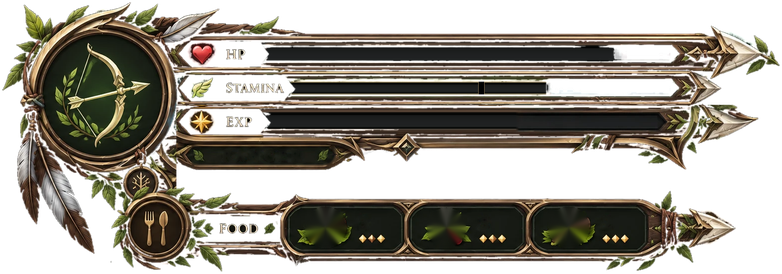
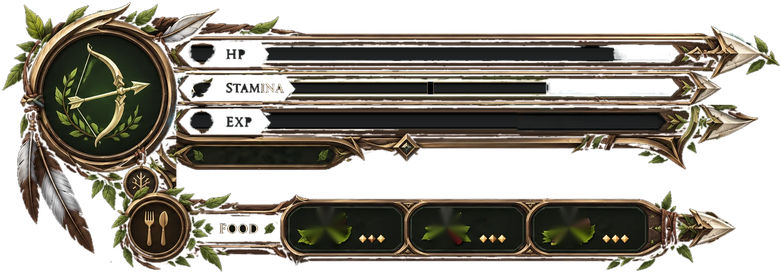
v0.25.74 Bar Labels: painted HUD label column removed, stat names drawn inside the bars
Claude-Session: https://claude.ai/code/session_01XpdCpqX2P5cHTKtzw8jsN7

Changed region(s): [[0.2455, 0.1168, 0.3376, 0.5255], [0.6138, 0.292, 0.6445, 0.3504], [0.5217, 0.292, 0.5524, 0.3504]]

diff --git a/AlbedosCustomClasses.Advanced.cs b/AlbedosCustomClasses.Advanced.cs
@@ -116,7 +116,7 @@ namespace AlbedosCustomClassesAdvanced
     {
         public const string ModGuid = "albedo.customclasses.advanced";
         public const string ModName = "Dragon's Altar - Advancements";
-        public const string ModVersion = "0.25.73";
+        public const string ModVersion = "0.25.74";
 
         private const string ClassDataKey = "AlbedoCustomClasses.Class";
         private const string AdvancementDataKey = "AlbedoCustomClasses.Advancement";
@@ -13877,21 +13877,27 @@ namespace AlbedosCustomClassesAdvanced
                 Rect v3 = new Rect(panel.x + l.Value[3].x * k - 260f * k, panel.y + l.Value[3].y * k - 14f * k, 260f * k, 28f * k);
                 IhHudOutlineLabel(v3, "Lv " + IhGetLevel(player).ToString(), _ihArtValue, new Color(0.98f, 0.92f, 0.70f, 1f));
             }
-            else
+            // v0.25.74 (user): the painted icon/label column is gone; each bar (or half) carries its name on the left
+            // and its number on the right (Warrior keeps its painted value column, so only the names go in its bars).
+            string[] names = { "HP", l.Split ? "STAMINA" : "STA", "EITR", "EXP" };
+            for (int i = 0; i < 4; i++)
             {
-                _ihArtValue.alignment = TextAnchor.MiddleCenter;
-                for (int i = 0; i < 4; i++)
-                {
-                    float bh = Mathf.Max(l.BarH[i], 22f);
-                    _ihArtValue.fontSize = Mathf.Max(12, Mathf.RoundToInt(Mathf.Min(19f, bh * 0.78f) * k));
-                    float cy = panel.y + (l.BarY[i] + l.BarH[i] * 0.5f) * k;
-                    float bx0 = l.BarX[i], bx1 = l.BarMax[i];
-                    if (i == 0 || i == 3) { bx0 = Mathf.Min(l.BarX[0], l.BarX[i]); }
-                    Rect r = new Rect(panel.x + bx0 * k, cy - 14f * k, (bx1 - bx0) * k, 28f * k);
-                    if (i == 3) IhHudOutlineLabel(r, "Lv " + IhGetLevel(player).ToString(), _ihArtValue, new Color(0.98f, 0.92f, 0.70f, 1f));
-                    else if (i == 2 && !l.Split && eiMax <= 0f) continue;
-                    else IhHudOutlineLabel(r, l.Split && i > 0 ? Mathf.CeilToInt(Mathf.Max(0f, cur[i])).ToString() : IhVal(cur[i], max[i]), _ihArtValue, txt);
-                }
+                if (i == 2 && !l.Split && eiMax <= 0f) continue;
+                float bh = Mathf.Max(l.BarH[i], 22f);
+                int fs2 = Mathf.Max(12, Mathf.RoundToInt(Mathf.Min(19f, bh * 0.78f) * k));
+                float cy = panel.y + (l.BarY[i] + l.BarH[i] * 0.5f) * k;
+                float pad = 10f * k;
+                Rect r = new Rect(panel.x + l.BarX[i] * k + pad, cy - 14f * k, (l.BarMax[i] - l.BarX[i]) * k - pad * 2f, 28f * k);
+                _ihArtValue.fontSize = fs2;
+                _ihArtValue.alignment = TextAnchor.MiddleLeft;
+                IhHudOutlineLabel(r, names[i], _ihArtValue, txt);
+                if (l.HasValues) continue;
+                _ihArtValue.alignment = TextAnchor.MiddleRight;
+                string val;
+                if (i == 3) val = "Lv " + IhGetLevel(player).ToString();
+                else if (l.Split && i > 0) val = Mathf.CeilToInt(Mathf.Max(0f, cur[i])).ToString();
+                else val = IhVal(cur[i], max[i]);
+                IhHudOutlineLabel(r, val, _ihArtValue, i == 3 ? new Color(0.98f, 0.92f, 0.70f, 1f) : txt);
             }
 
             // class name on the painted plate (shrinks to fit)

diff --git a/tools/build_hud_frames.py b/tools/build_hud_frames.py
@@ -111,6 +111,7 @@ def build(cls):
             x, y = c; rr = g["food_digit_r"]
             text_erase((x - rr, y - rr - 4, x + rr, y + rr + 4), 80, 110)
     clean = cv2.inpaint(bgr, erase, 6, cv2.INPAINT_TELEA) if erase.any() else bgr
+    clean = remove_label_column(g, clean, strips)
     # alpha: background-like pixels connected to the border become transparent (soft by distance)
     bg = np.median(np.concatenate([bgr_src[:20, :20].reshape(-1, 3), bgr_src[-20:, -20:].reshape(-1, 3), bgr_src[:20, -20:].reshape(-1, 3), bgr_src[-20:, :20].reshape(-1, 3)]), axis=0)
     diff = np.abs(bgr_src.astype(int) - bg).max(axis=2)
@@ -132,6 +133,27 @@ def build(cls):
     if g.get("cut"):
         rgb, a, keep = cut_eitr_row(g, rgb, a, keep, strips, profile)
     return dict(g=g, rgb=rgb, alpha=a, strips=strips, keep=keep)
+
+# v0.25.74 (user): the painted label column (stat icon + HP / STAMINA / EXP text) goes away; the names are drawn
+# INSIDE the bars. The bar block is uniform horizontally, so the column is rebuilt from bar-area columns right of it
+# (troughs + row separators), feathered into the left border, and every bar starts at the old column's left edge.
+def remove_label_column(g, img, strips):
+    kx0, ky0, kx1, ky1 = g["keep"][0]
+    lx0 = kx0 + g.get("label_pad", 0)
+    x1 = min(st["x0"] for st in strips) + 3
+    w = x1 - lx0
+    sx = x1 + 24
+    y0, y1 = ky0 - 6, ky1 + 6
+    out = img.astype(float)
+    src = img[y0:y1, sx:sx + w].astype(float)
+    wgt = np.ones(w)
+    f = 8
+    for i in range(f):
+        wgt[i] = (i + 1) / (f + 1.0)
+    out[y0:y1, lx0:x1] = out[y0:y1, lx0:x1] * (1 - wgt[None, :, None]) + src * wgt[None, :, None]
+    for st in strips:
+        st["x0"] = lx0 + 4
+    return out.astype(np.uint8)
 
 # v0.25.73 (user): Stamina and Eitr share ONE bar line split in two. The painted Eitr row is cut out: everything right of
 # the bar column below the Stamina row (plus the food tray) moves up by one row height; a divider is painted at the
@@ -247,6 +269,16 @@ def compose(base, ac, target, values=(1.0, 0.82, 0.55, 0.62)):
         for i, ((key, y0, y1, *_), s) in enumerate(zip(g["bars"], nums)):
             if sp and i == 2: continue
             text(d, (g["value_x"], cut_shift(g, g["value_x"], (y0 + y1) // 2) if sp else (y0 + y1) // 2), s, 30, anchor="rm")
+    # v0.25.74 names inside the bars (game draws the same)
+    for i, st in enumerate(base["strips"]):
+        x0, y0, xmax = st["x0"], st["y0"], st["xmax"]
+        h = st["img"].shape[0]
+        if sp and i == 1: xmax = sp[0] - sp[1]
+        if sp and i == 2: x0, y0, xmax, h = sp[0] + sp[1], s1["y0"], s1["xmax"], s1["img"].shape[0]
+        cy = y0 + h // 2
+        text(d, (x0 + 18, cy), ["HP", "STAMINA", "EITR", "EXP"][i], 24, anchor="lm")
+        if not g["values"]:
+            text(d, (xmax - 18, cy), ["720 / 720", "123", "55", "Lv 12"][i], 24, anchor="rm")
     x0, y0, x1, y1 = g["name"]
     ny = cut_shift(g, (x0 + x1) // 2, (y0 + y1) // 2) if sp else (y0 + y1) // 2
     text(d, ((x0 + x1) // 2, ny), ac.upper(), 30, maxw=(x1 - x0) - 30)

diff --git a/AlbedosCustomClasses.Skills.cs b/AlbedosCustomClasses.Skills.cs
@@ -233,7 +233,7 @@ namespace AlbedosCustomClassesSkills
         public static SkillsPlugin Instance;
         public const string ModGuid = "albedo.customclasses.skills";
         public const string ModName = "Dragon's Altar - Starter Skills";
-        public const string ModVersion = "0.25.73";
+        public const string ModVersion = "0.25.74";
 
         private const string ClassDataKey = "AlbedoCustomClasses.Class";
         private const string WarriorRunBonusKey = "AlbedoCustomClasses.WarriorRunBonus";

diff --git a/DragonsAltar.Sorcerer.cs b/DragonsAltar.Sorcerer.cs
@@ -165,7 +165,7 @@ namespace DragonsAltarSorcerer
     {
         public const string ModGuid = "albedo.customclasses.sorcerer";
         public const string ModName = "Dragon's Altar - Sorcerer Advancements";
-        public const string ModVersion = "0.25.73";
+        public const string ModVersion = "0.25.74";
 
         private const string ClassDataKey = "AlbedoCustomClasses.Class";
         private const string AdvancementDataKey = "AlbedoCustomClasses.Advancement";

diff --git a/DragonsAltar.Ranger.cs b/DragonsAltar.Ranger.cs
@@ -40,7 +40,7 @@ namespace DragonsAltarRanger
     {
         public const string ModGuid = "albedo.customclasses.ranger";
         public const string ModName = "Dragon's Altar - Ranger";
-        public const string ModVersion = "0.25.73";
+        public const string ModVersion = "0.25.74";
         private const string ClassDataKey = "AlbedoCustomClasses.Class";
         private const string AdvancementDataKey = "AlbedoCustomClasses.Advancement";
 

diff --git a/AlbedosCustomClasses.Core.cs b/AlbedosCustomClasses.Core.cs
@@ -41,7 +41,7 @@ namespace AlbedosCustomClasses
     {
         public const string ModGuid = "albedo.customclasses";
         public const string ModName = "Dragon's Altar";
-        public const string ModVersion = "0.25.73";
+        public const string ModVersion = "0.25.74";
 
         internal const string ClassDataKey = "AlbedoCustomClasses.Class";
         internal const string AdvancementDataKey = "AlbedoCustomClasses.Advancement";

diff --git a/AlbedosCustomClasses.GuardianAngel.cs b/AlbedosCustomClasses.GuardianAngel.cs
@@ -17,7 +17,7 @@ namespace AlbedosCustomClassesGuardian
     {
         public const string ModGuid = "albedo.customclasses.guardian";
         public const string ModName = "Dragon's Altar - Grand Sigil Survival";
-        public const string ModVersion = "0.25.73";
+        public const string ModVersion = "0.25.74";
 
         private const string AdvancementDataKey = "AlbedoCustomClasses.Advancement";
 

diff --git a/AlbedosCustomClasses.Passives.cs b/AlbedosCustomClasses.Passives.cs
@@ -9,7 +9,7 @@ namespace AlbedosCustomClassesPassives
     {
         public const string ModGuid = "albedo.customclasses.passives";
         public const string ModName = "Dragon's Altar - Base Blessings Compatibility";
-        public const string ModVersion = "0.25.73";
+        public const string ModVersion = "0.25.74";
 
         private void Awake()
         {

diff --git a/DragonsAltar.CombatRuntime.cs b/DragonsAltar.CombatRuntime.cs
@@ -15,7 +15,7 @@ namespace DragonsAltarCombat
     {
         public const string ModGuid = "albedo.customclasses.combatruntime";
         public const string ModName = "Dragon's Altar - Combat Runtime";
-        public const string ModVersion = "0.25.73";
+        public const string ModVersion = "0.25.74";
 
         internal static DragonCombatPlugin Instance;
 

diff --git a/DragonsAltar.DevTools.cs b/DragonsAltar.DevTools.cs
@@ -40,7 +40,7 @@ namespace DragonsAltarDevTools
     {
         public const string ModGuid = "albedo.customclasses.devtools";
         public const string ModName = "Dragon's Altar - Developer Tools";
-        public const string ModVersion = "0.25.73";
+        public const string ModVersion = "0.25.74";
 
         public static DeveloperToolsPlugin Instance;
 

diff --git a/CLAUDE.md b/CLAUDE.md
@@ -3,7 +3,7 @@
 ## Working rules
 - User wants short responses and real execution, not long explanations.
 - **RUSH B** = immediately code the obvious requested task, minimal commentary, use latest approved build as baseline, don't redesign unrelated things, verify and package.
-- Latest package: **v0.25.73 — Split Bars** (v0.25.72 Living Skills, v0.25.71 Recast and Brace, v0.25.70 Bat Swing, v0.25.69 Sharp Edges, v0.25.68 Class Frames, v0.25.67 Getsuga and Smart Aim, v0.25.66 Terrain and Slashes, v0.25.65 Afterimages and Arrows, v0.25.64 Paladin Relic, v0.25.63 Smash and Crescents, v0.25.62 Signature VFX Fix, v0.25.61 Signature VFX, v0.25.60 Ground Lightning, v0.25.59 Flowing Chains, v0.25.58 Detail Pass, v0.25.57 Cleric Details, v0.25.56 Sorcerer and Ranger VFX, v0.25.55 Warrior VFX, v0.25.54 Cleric VFX, v0.25.53 Rooted Splitting, v0.25.52 Ranger Windows, v0.25.51 Crescent Follow Up, v0.25.50 Crescent Fix, v0.25.49 Ranger Rework, v0.25.48 Real Chains, v0.25.47 Warrior Weapons, v0.25.46 Merc Weapons, v0.25.45 Class Chains, v0.25.44 Chain Fix, v0.25.43 Dual Wield Clips, v0.25.42 Weapons and Chains, v0.25.41 Emotes and Judgement Cut, v0.25.40 Buff Raise, v0.25.39 Altar Panels, v0.25.38 Combo Chains, v0.25.37 Tooltip Fit, v0.25.36 Hammer Slam, v0.25.35 Swing Timing, v0.25.34 Buff Tooltips, v0.25.33 Piercing Volleys, v0.25.32 Two Hand Whirlwind, v0.25.31 Cyclone Shot, v0.25.30 Wind Up Timing, v0.25.29 Crow Hop, v0.25.28 Circle Skip, v0.25.27 Vanilla Base, v0.25.26 Anatomy, v0.25.25 Vanilla Layer, v0.25.24 Spin and Bow Poses, v0.25.23 Storyboard Rebuild, v0.25.22 Planted Feet, v0.25.21 Animation Guide, v0.25.20 Held Items, v0.25.19 Animation Polish, v0.25.18 Ranged and Rift Families, v0.25.17 Martial Families, v0.25.16 Casting Families, v0.25.15 Vanguard and Olympic Hero, v0.25.14 Smooth Motions, v0.25.13 Trait Motions, v0.25.12 Angel Comet and Burns, v0.25.11 Damage Split and Tooltips, v0.25.10 Ranger Motions, v0.25.9 Sorcerer Motions, v0.25.8 Warrior Motions, v0.25.7 Cleric Motions, v0.25.6 Orb and Motions, v0.25.5 HUD Rework, v0.25.4 Stat HUD, v0.25.3 Lean HUD, v0.25.2 HUD Fixes, v0.25.1 HUD Style, v0.25.0 Immortal HUD, v0.24.4 Animations, v0.24.3 Ranger Fixes, v0.24.2 Ranger Polish, v0.24.1 Bowmaster, v0.24.0 Ranger, v0.23.10 Art Fixes, v0.23.9 Class Art, v0.23.8 Icons, v0.23.7 Polish, v0.23.6 Astral Twins, v0.23.5 Universal UI, v0.23.4 Horizon Walker, v0.23.3 Tweaks, v0.23.2 Spellcaster, v0.23.1 Wizard, v0.23.0 Sorcerer, v0.22.5 Calibration, v0.22.4 Mercenary, v0.22.3 Sword Master, v0.22.2 HUD and Altar Fixes, v0.22.1 Kit UI Fixes, v0.22.0 Universal Kits, v0.21.2 Balance Pass, v0.21.1 Cleric Tweaks, v0.21.0 Priest Ascended, v0.20.9 Buckler Parry, v0.20.8 Cleric per Framework, v0.20.7 Cleric Consistency, v0.20.6 Polish, v0.20.5 Config Window, v0.20.4 Tree and Altar Fixes), built on ChatGPT's v0.20.3 (Universal Tree runtime chassis + uGUI Altar with Altar_Background/Altar_ClassCards; it REPLACED our v0.19.2/0.19.3 IMGUI Altar, which the user accepted as the new base). Older: v0.19.x ours, v0.19.0 ChatGPT. Do NOT change combat/progression logic unless explicitly requested.
+- Latest package: **v0.25.74 — Bar Labels** (v0.25.73 Split Bars, v0.25.72 Living Skills, v0.25.71 Recast and Brace, v0.25.70 Bat Swing, v0.25.69 Sharp Edges, v0.25.68 Class Frames, v0.25.67 Getsuga and Smart Aim, v0.25.66 Terrain and Slashes, v0.25.65 Afterimages and Arrows, v0.25.64 Paladin Relic, v0.25.63 Smash and Crescents, v0.25.62 Signature VFX Fix, v0.25.61 Signature VFX, v0.25.60 Ground Lightning, v0.25.59 Flowing Chains, v0.25.58 Detail Pass, v0.25.57 Cleric Details, v0.25.56 Sorcerer and Ranger VFX, v0.25.55 Warrior VFX, v0.25.54 Cleric VFX, v0.25.53 Rooted Splitting, v0.25.52 Ranger Windows, v0.25.51 Crescent Follow Up, v0.25.50 Crescent Fix, v0.25.49 Ranger Rework, v0.25.48 Real Chains, v0.25.47 Warrior Weapons, v0.25.46 Merc Weapons, v0.25.45 Class Chains, v0.25.44 Chain Fix, v0.25.43 Dual Wield Clips, v0.25.42 Weapons and Chains, v0.25.41 Emotes and Judgement Cut, v0.25.40 Buff Raise, v0.25.39 Altar Panels, v0.25.38 Combo Chains, v0.25.37 Tooltip Fit, v0.25.36 Hammer Slam, v0.25.35 Swing Timing, v0.25.34 Buff Tooltips, v0.25.33 Piercing Volleys, v0.25.32 Two Hand Whirlwind, v0.25.31 Cyclone Shot, v0.25.30 Wind Up Timing, v0.25.29 Crow Hop, v0.25.28 Circle Skip, v0.25.27 Vanilla Base, v0.25.26 Anatomy, v0.25.25 Vanilla Layer, v0.25.24 Spin and Bow Poses, v0.25.23 Storyboard Rebuild, v0.25.22 Planted Feet, v0.25.21 Animation Guide, v0.25.20 Held Items, v0.25.19 Animation Polish, v0.25.18 Ranged and Rift Families, v0.25.17 Martial Families, v0.25.16 Casting Families, v0.25.15 Vanguard and Olympic Hero, v0.25.14 Smooth Motions, v0.25.13 Trait Motions, v0.25.12 Angel Comet and Burns, v0.25.11 Damage Split and Tooltips, v0.25.10 Ranger Motions, v0.25.9 Sorcerer Motions, v0.25.8 Warrior Motions, v0.25.7 Cleric Motions, v0.25.6 Orb and Motions, v0.25.5 HUD Rework, v0.25.4 Stat HUD, v0.25.3 Lean HUD, v0.25.2 HUD Fixes, v0.25.1 HUD Style, v0.25.0 Immortal HUD, v0.24.4 Animations, v0.24.3 Ranger Fixes, v0.24.2 Ranger Polish, v0.24.1 Bowmaster, v0.24.0 Ranger, v0.23.10 Art Fixes, v0.23.9 Class Art, v0.23.8 Icons, v0.23.7 Polish, v0.23.6 Astral Twins, v0.23.5 Universal UI, v0.23.4 Horizon Walker, v0.23.3 Tweaks, v0.23.2 Spellcaster, v0.23.1 Wizard, v0.23.0 Sorcerer, v0.22.5 Calibration, v0.22.4 Mercenary, v0.22.3 Sword Master, v0.22.2 HUD and Altar Fixes, v0.22.1 Kit UI Fixes, v0.22.0 Universal Kits, v0.21.2 Balance Pass, v0.21.1 Cleric Tweaks, v0.21.0 Priest Ascended, v0.20.9 Buckler Parry, v0.20.8 Cleric per Framework, v0.20.7 Cleric Consistency, v0.20.6 Polish, v0.20.5 Config Window, v0.20.4 Tree and Altar Fixes), built on ChatGPT's v0.20.3 (Universal Tree runtime chassis + uGUI Altar with Altar_Background/Altar_ClassCards; it REPLACED our v0.19.2/0.19.3 IMGUI Altar, which the user accepted as the new base). Older: v0.19.x ours, v0.19.0 ChatGPT. Do NOT change combat/progression logic unless explicitly requested.
 - Never patch visual problems by drawing random rectangles over the reference asset. Keep approved artwork intact; make layout/components fit properly.
 
 ## Framework doc (source of truth for design)
@@ -178,6 +178,7 @@
 - v0.25.71 UNIVERSAL RULE (user): every channel / duration skill is cancelled by recasting it. Whirlwind normal + Ascended (`_whirlActive` / `_whirlStopRequested`, BeginWhirlwind 0.05 + ClipStop + IH_SpinSlash destroyed), Furious Winds (`_fwActive` / `_fwStop`: LockSkill 0, BeginMobileCast 0.05, ClipStop), Starfall Volley (`_sfActive` / `_sfStop`, no Ascended finale when cancelled). New channel skills must follow the same rule. ANIMATION RULE (user, from Olympic Hero): the off hand (shield or Merc off-hand weapon) braces in front of the chest in custom moves, LHand(0.4,-0.2,0.9,0.5); landings rest it over the front knee LHand(0.15,-0.85,0.5,0.7). Applied to angel_comet, slam_kneel, sm_charge, sm_blade_storm (scabbard at the left hip LHand(0.25,-0.95,0.2,0.72)), cleric_hammer_slam fallback.
 - v0.25.72 UNIVERSAL VFX LAYER (user: "go all out with the VFX"): DragonVfx `HitImpact` (BeginDamage: local attacker, creature target, ReadHitSkill None = skill hit; dominant damage type -> slash streaks / blunt dust+shake / pierce spray / fire embers+flare / frost shards / lightning arcs / poison puff / spirit motes; throttled 0.15 s per target via `_impactNext`), `CastFlare` (Advanced IhCastSkill when `began`: Glyph rune circle + motes + flash; big for kit Ultimate / Grace: + Pillar + Shake), `WeaponCharge` (DragonCombat.PlayClip windup >= 0.3 or hold: AttachGlow on the right-hand bone for the wind up), `ClassColor(player)` palette = the HUD AC colours. Stubs lack HitData.DamageTypes / Character.GetCenterPoint: read hit.m_damage.m_* fields directly and use position + up.
 - v0.25.73 (user: "everything you did with the animations suck"): ANIMATIONS REVERTED to v0.25.62 (Stomp SbGround, SbOlympic, merc_circle crow hop, storyboard tail, Advanced jump-slam air steering / OlympicLanding; no IhFaceLook / IhFireSlam / slam_kneel); recast-cancel (v0.25.71) and VFX kept. HUD: Stamina | Eitr share ONE bar line: build_hud_frames.py `cut` per class (row y0, y1, column x, food left, food top) cuts the painted Eitr row out (`cut_eitr_row`, everything right of the column / the food tray moves up one row, divider painted at the Stamina trough middle), layout `split 1`, bar 1 = left half, bar 2 = right half on row 1. Numbers: `IhHudOutlineLabel` (8-dir black outline), font >= 12 px; Warrior value column HP / "Sta | Eit" coloured / Lv. VFX: `DragonVfx.Status(target, kind, s)` (stun, frost, freeze, expose, cripple, fireburn, spiritburn, judgement, sanctified; one aura per character+kind via `StatusGate`) hooked in Stun / Freeze / ApplyFrost / ApplyExpose / ApplyCripple / burn ticks / Judgement Mark / IhSanctify; `HyperShimmer` in GrantHyperArmor.
+- v0.25.74 (user): painted stat icon + label column removed from every HUD frame (`remove_label_column` in build_hud_frames.py: column keep[0].x0 -> first fill, rebuilt from bar-area columns 24 px right, 8 px left feather; every bar x0 = column left + 4). Names drawn INSIDE the bars (HP / STAMINA / EITR / EXP, left, white outlined); non-Warrior values right-aligned in the same bar/half (EXP = Lv N); Warrior keeps its value column.
 - v0.22.2: HUD key labels use `_hudKeyCenterStyle` (UpperCenter); Altar shows Icon_righteous_strike_Normal.png (Icon_righteous_strike.png is the Ascended magenta frame).
 
 ## Ascended designs (approved so far; tooltip header "ASCENDED - <SKILL>", names unchanged)
